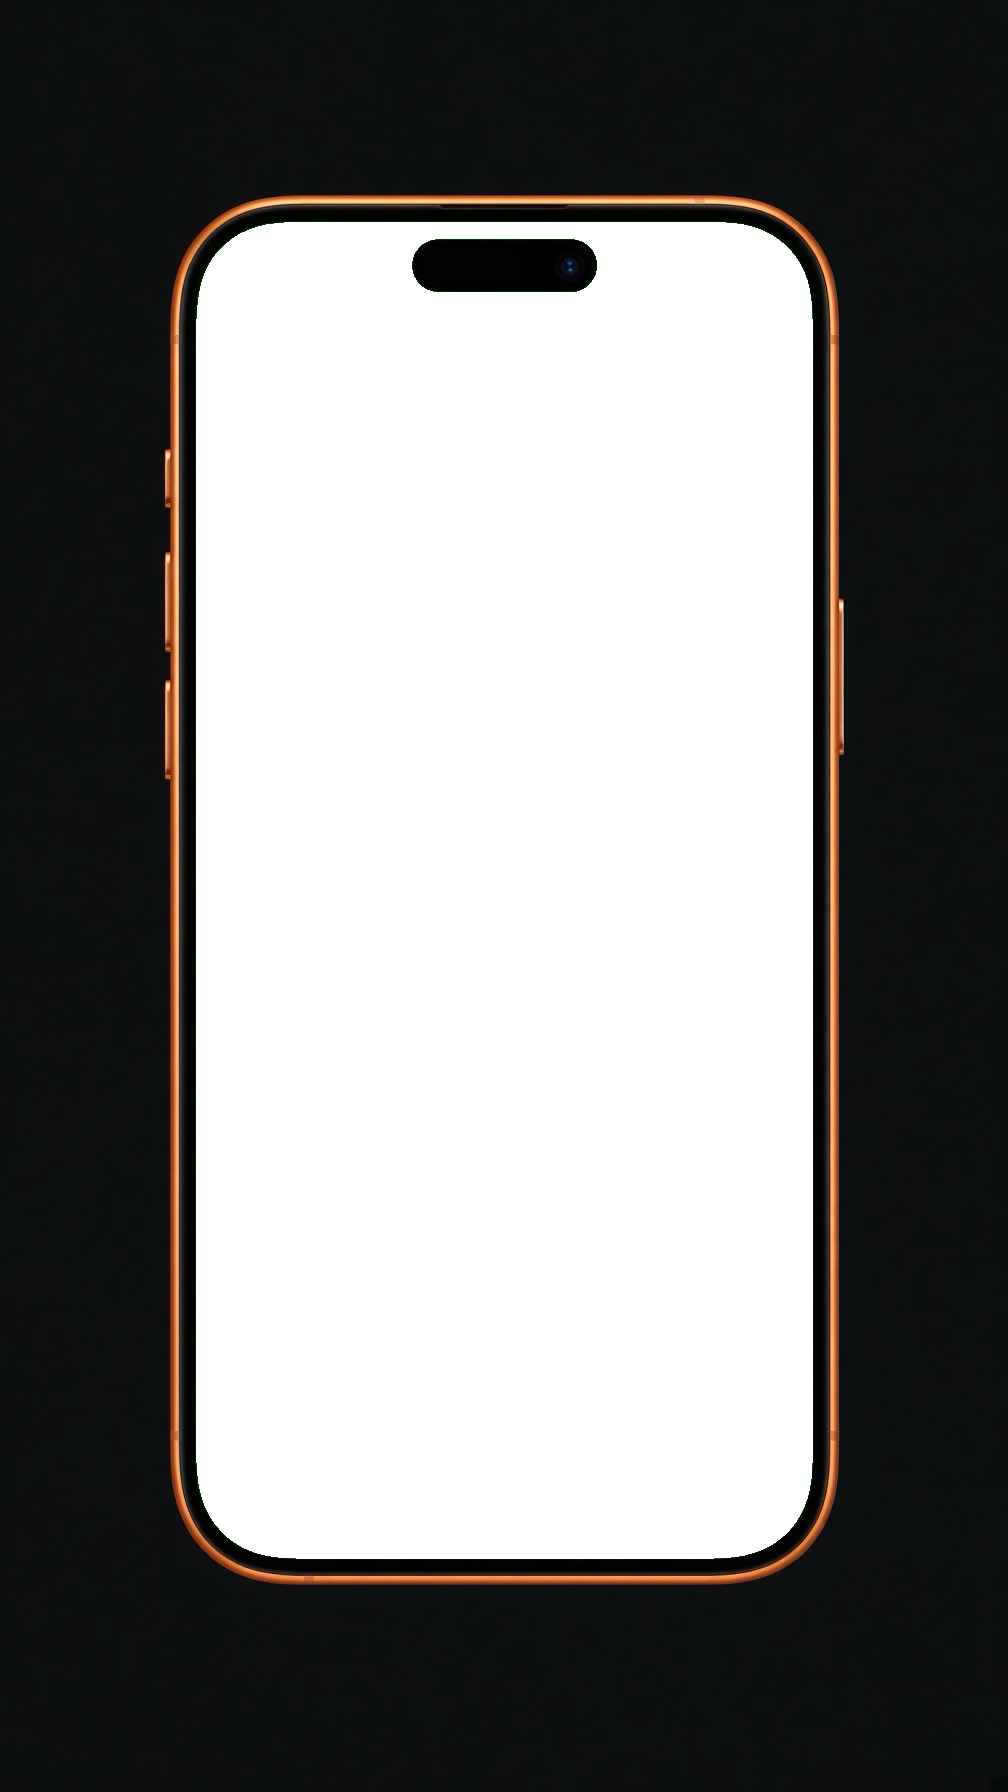
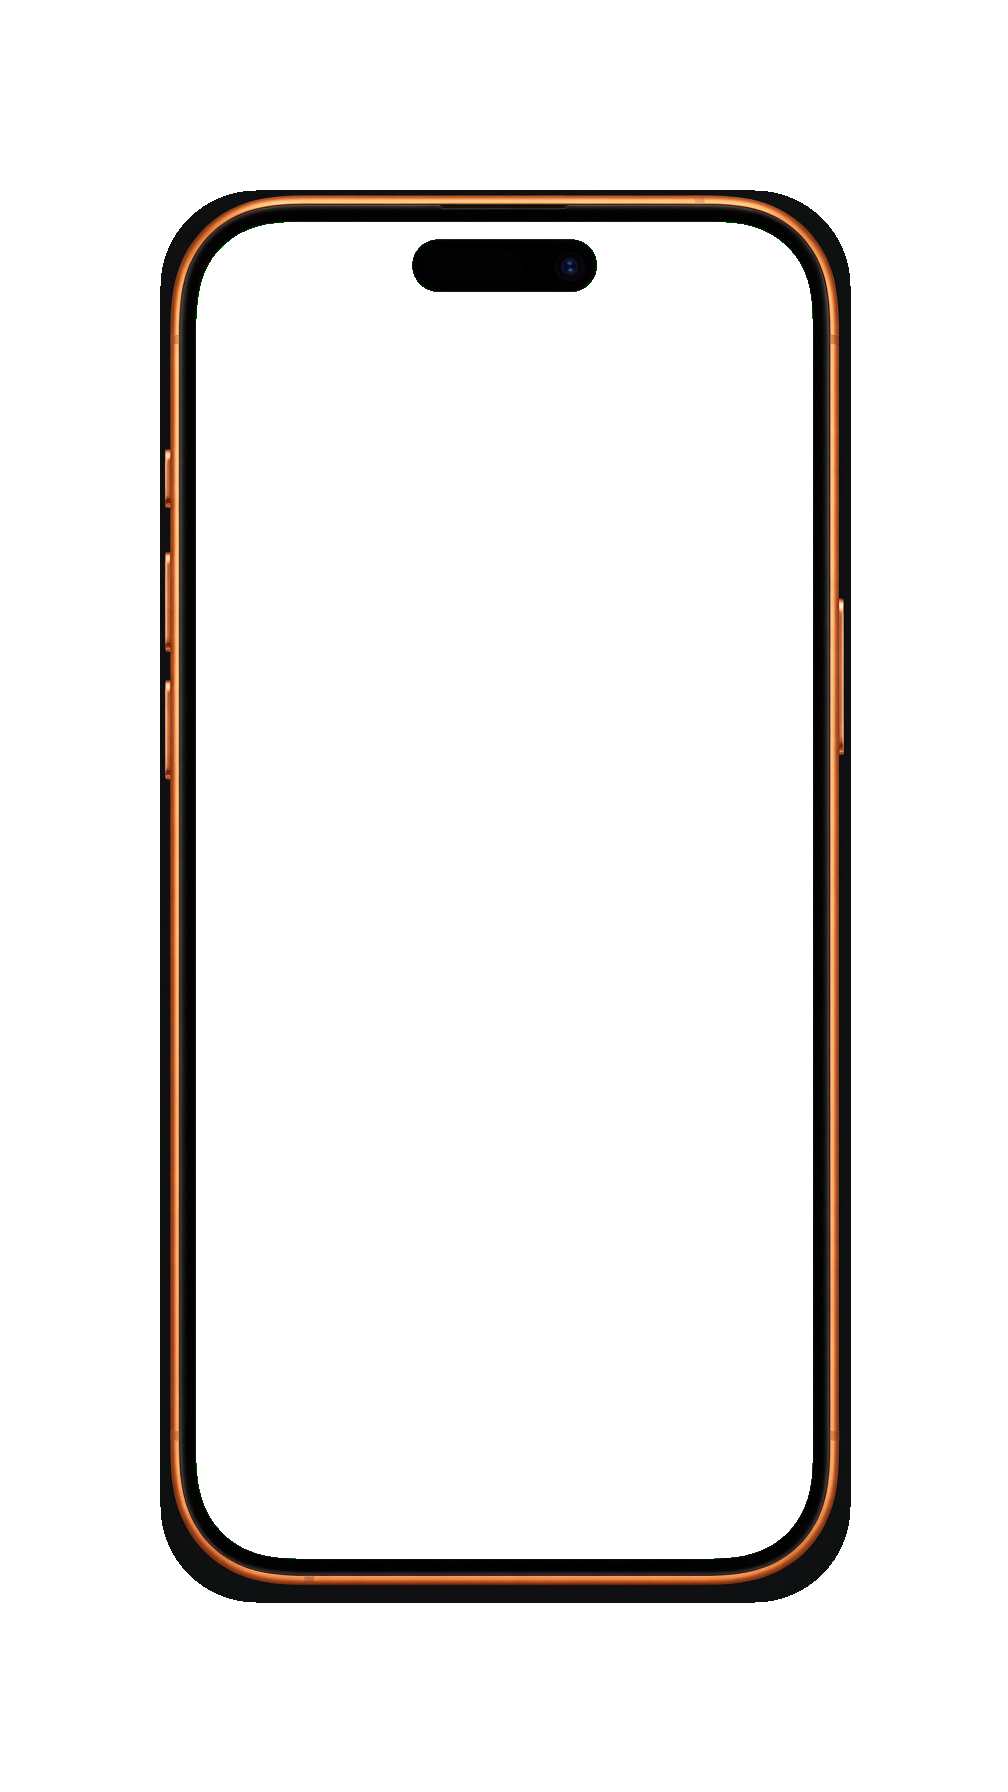
Remove iPhone frame background

diff --git a/en/index.html b/en/index.html
@@ -49,7 +49,7 @@
         <div class="lingdi-ai-scenes__stage">
           <div class="lingdi-ai-scenes__frame" data-ai-scene-frame>
             <video class="lingdi-ai-scenes__video" data-ai-scene-video src="/assets/evidence/doubao-snack-order-phone.mp4" poster="/assets/evidence/doubao-snack-order-phone-poster.png" preload="metadata" muted playsinline loop controls aria-label="Real screen recording of snack discovery in Doubao followed by a completed order in Douyin commerce"></video>
-            <img class="lingdi-ai-scenes__shell" src="/assets/evidence/iphone17-orange-shell-keyed.png" width="1008" height="1792" alt="" aria-hidden="true">
+            <img class="lingdi-ai-scenes__shell" src="/assets/evidence/iphone17-orange-shell-keyed.png?v=20260822-transparent1" width="1008" height="1792" alt="" aria-hidden="true">
           </div>
           <div class="lingdi-ai-scenes__copy" id="ai-scenes-panel-en" data-ai-scene-panel role="tabpanel" aria-live="polite" aria-labelledby="ai-scene-en-1">
             <p class="lingdi-ai-scenes__active-meta" data-ai-scene-meta>DOUBAO / COMMERCE</p>

diff --git a/index.html b/index.html
@@ -180,7 +180,7 @@
         <div class="lingdi-ai-scenes__stage">
           <div class="lingdi-ai-scenes__frame" data-ai-scene-frame>
             <video class="lingdi-ai-scenes__video" data-ai-scene-video src="/assets/evidence/doubao-snack-order-phone.mp4" poster="/assets/evidence/doubao-snack-order-phone-poster.png" preload="metadata" muted playsinline loop controls aria-label="豆包搜索零食并进入抖音电商完成下单的真实录屏样本"></video>
-            <img class="lingdi-ai-scenes__shell" src="/assets/evidence/iphone17-orange-shell-keyed.png" width="1008" height="1792" alt="" aria-hidden="true">
+            <img class="lingdi-ai-scenes__shell" src="/assets/evidence/iphone17-orange-shell-keyed.png?v=20260822-transparent1" width="1008" height="1792" alt="" aria-hidden="true">
           </div>
           <div class="lingdi-ai-scenes__copy" id="ai-scenes-panel-cn" data-ai-scene-panel role="tabpanel" aria-live="polite" aria-labelledby="ai-scene-cn-1">
             <p class="lingdi-ai-scenes__active-meta" data-ai-scene-meta>豆包 / 电商增长路径</p>
